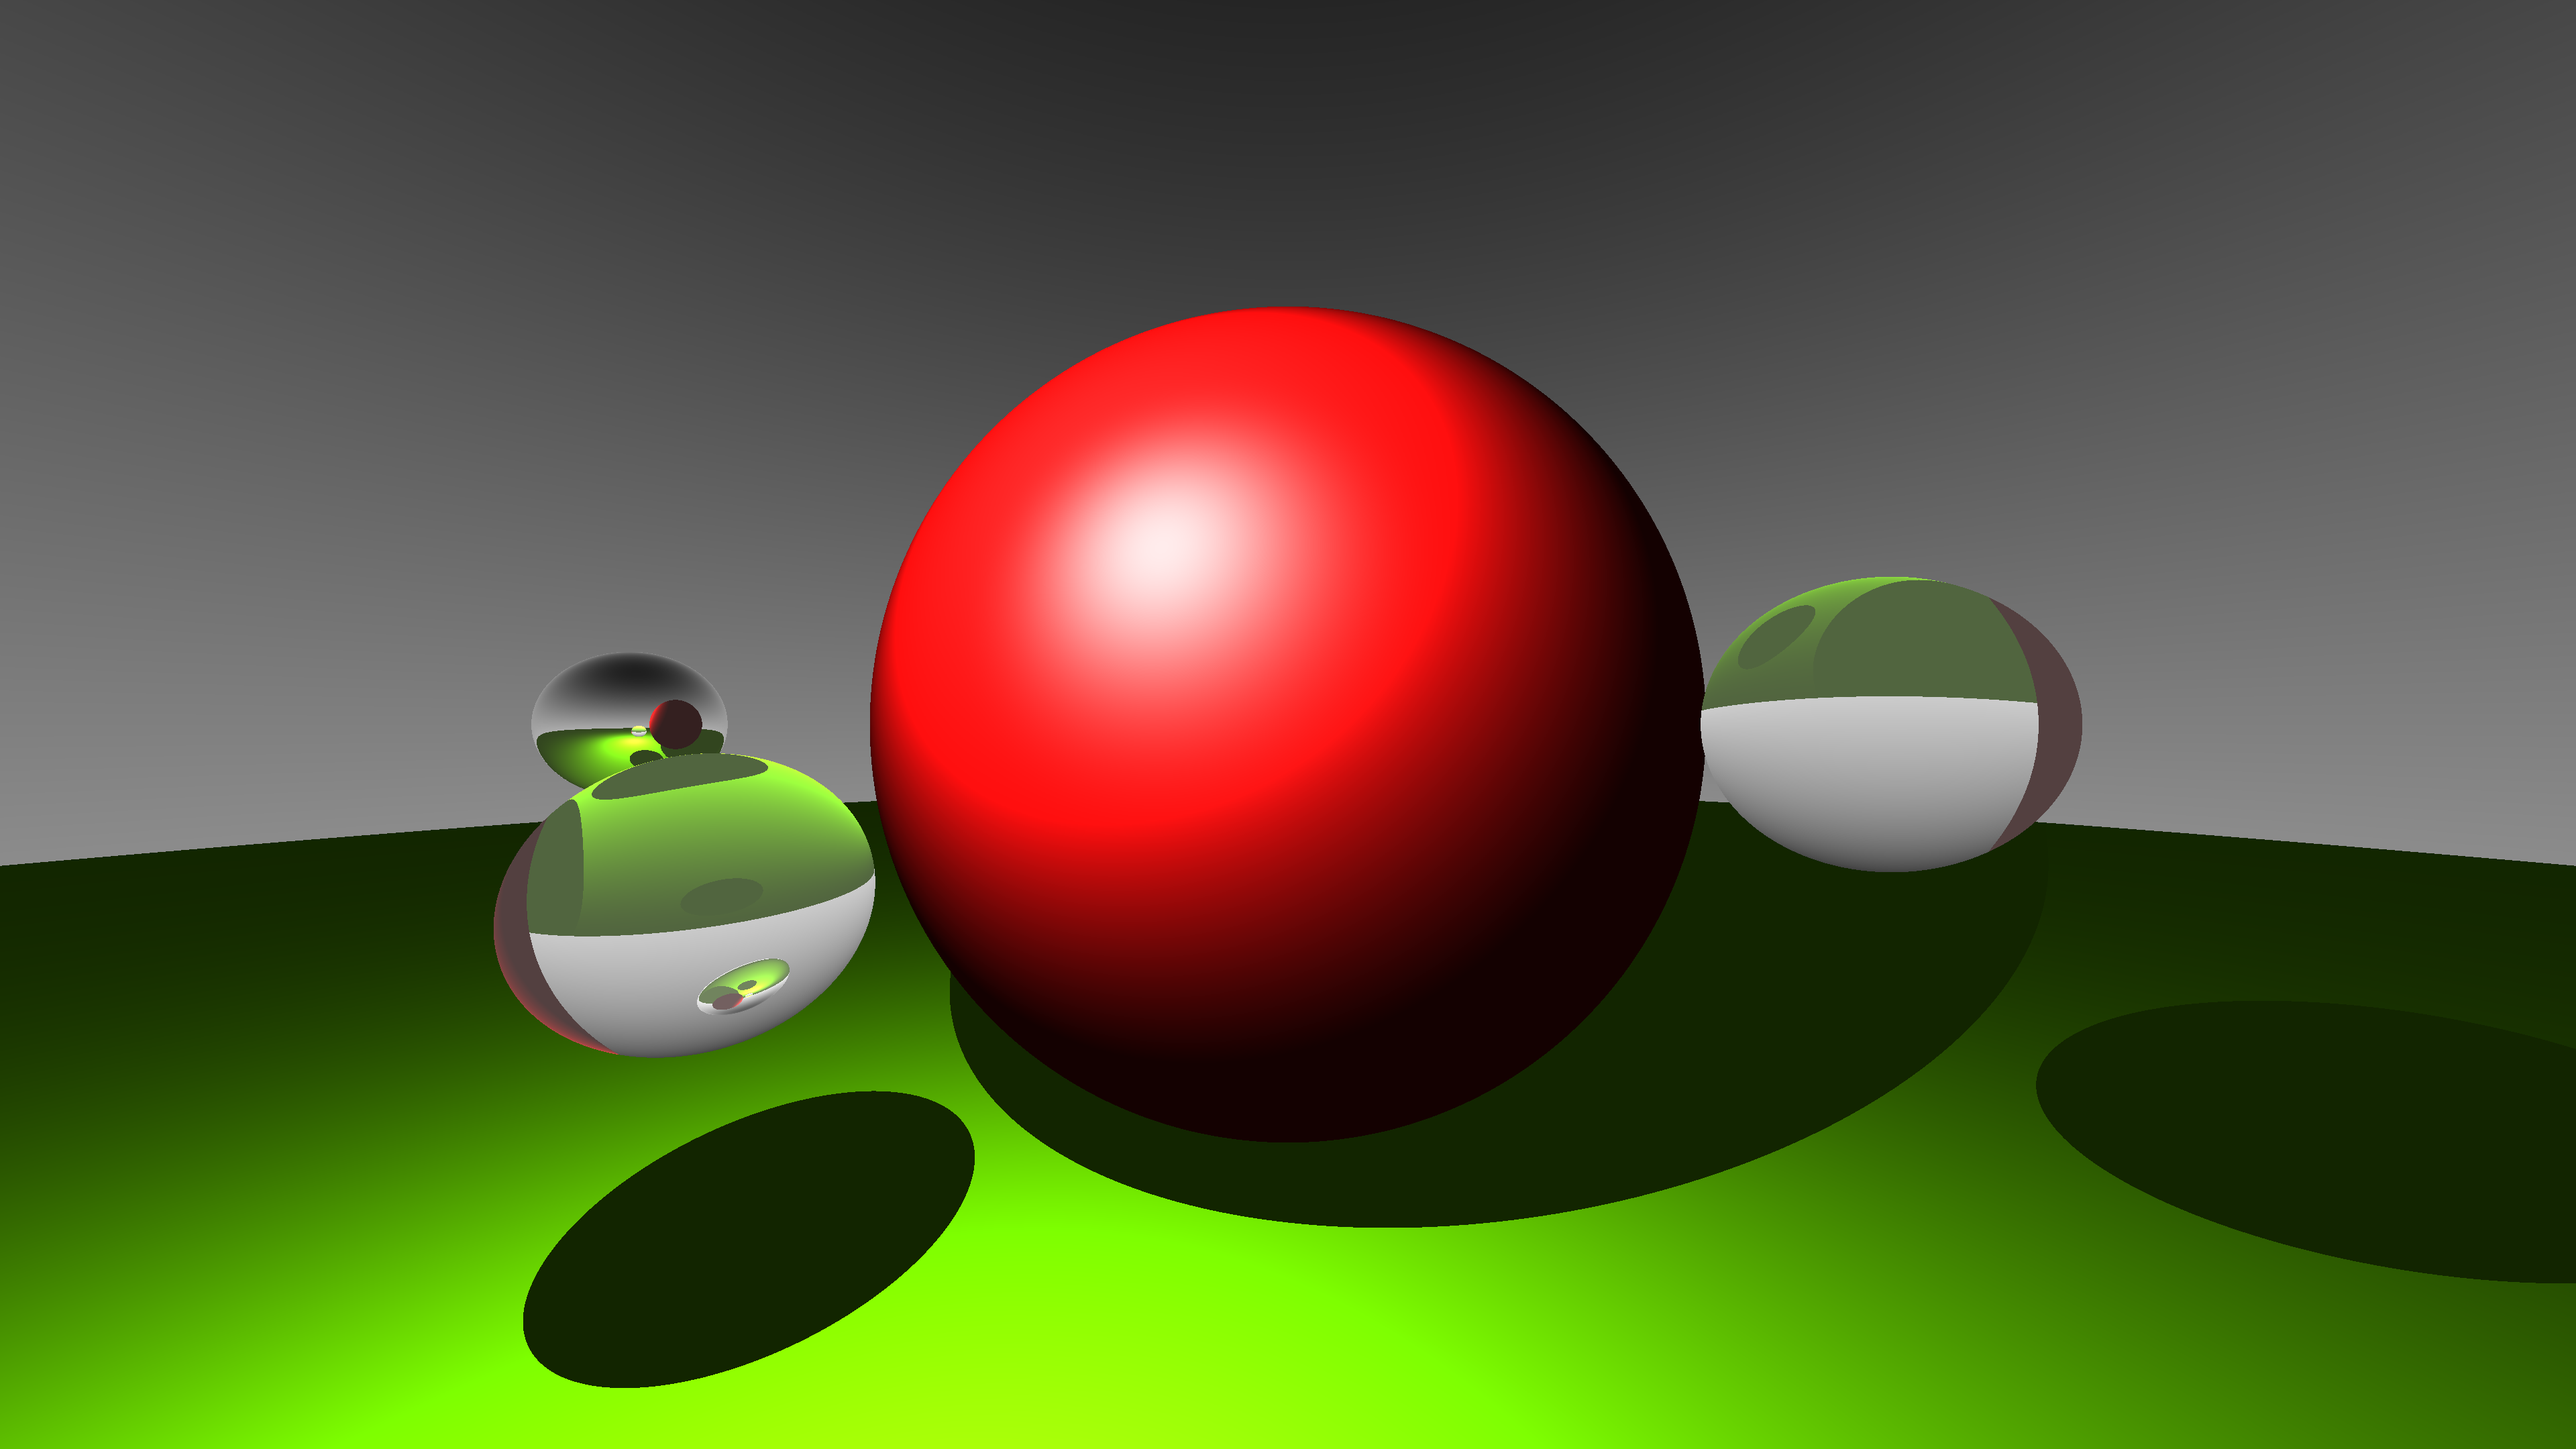
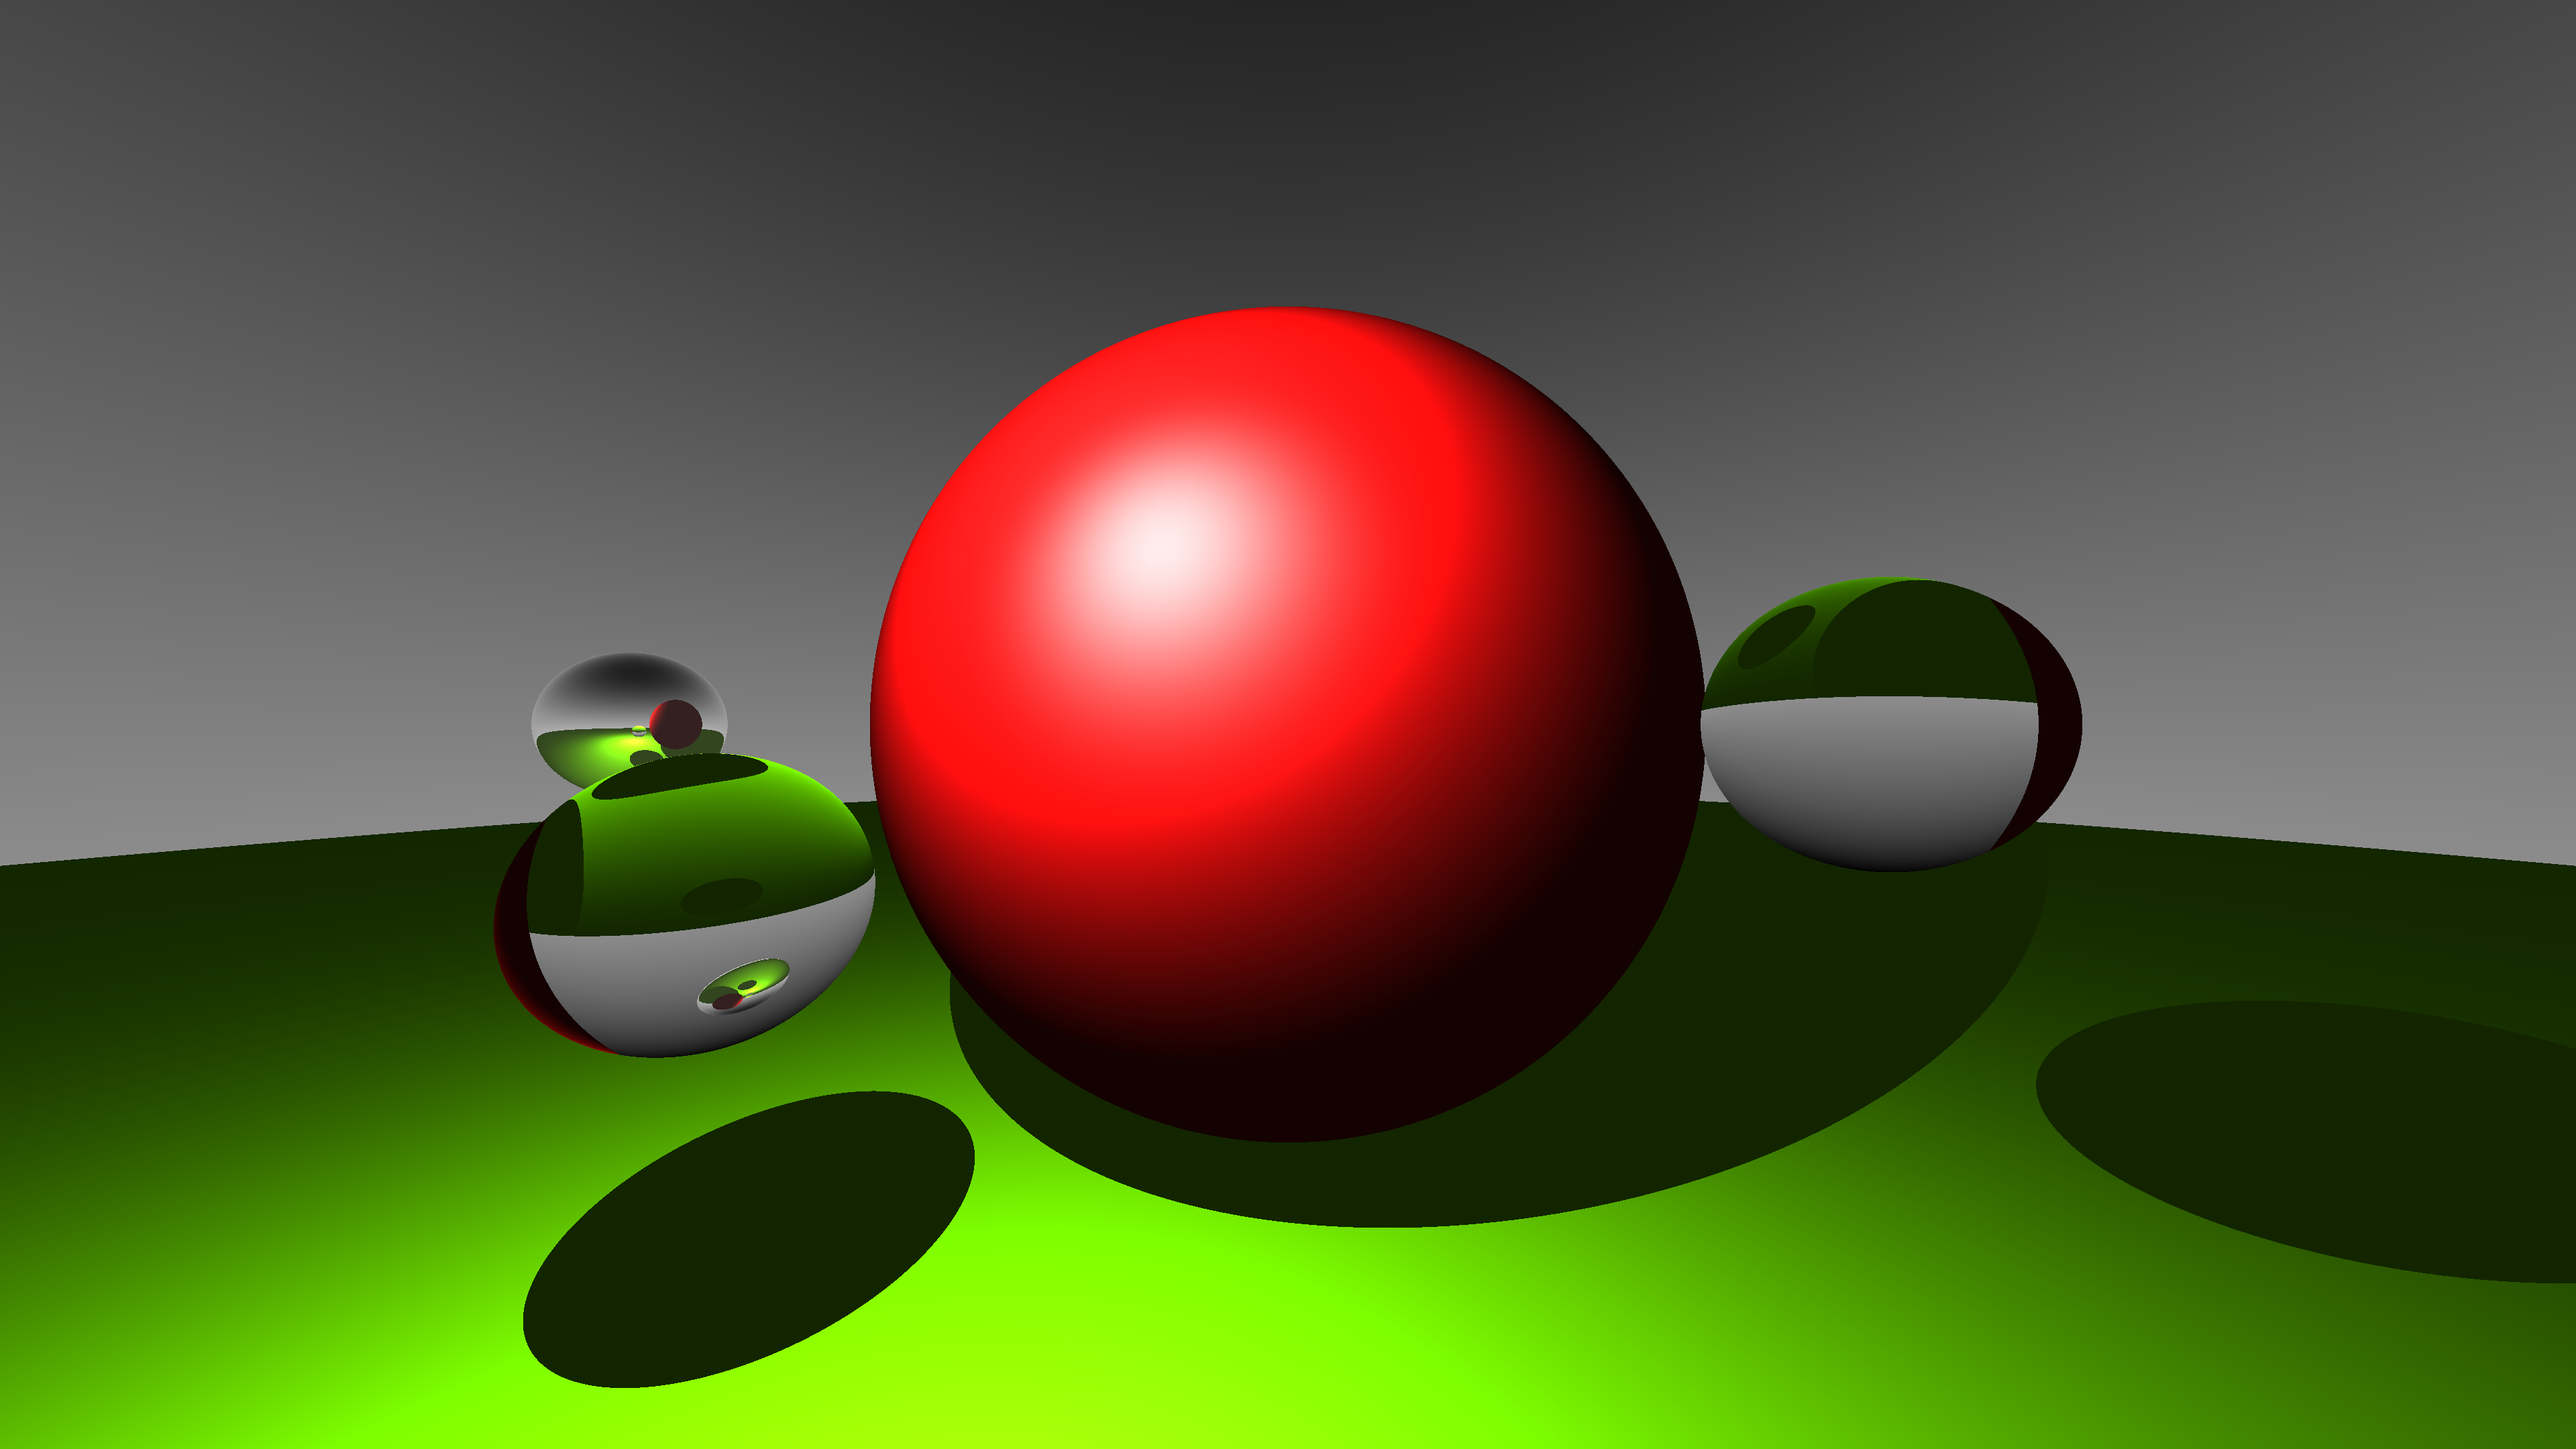
small scene refactor

Changed region(s): [[0.6562, 0.3722, 0.8125, 0.6204], [0.1875, 0.4963, 0.3438, 0.7444]]

diff --git a/src/tracer/scene.rs b/src/tracer/scene.rs
@@ -34,43 +34,43 @@ impl Scene {
         }
         false
     }
-}
 
-pub fn default() -> Scene {
-    Scene {
-        light: DVec3::new(-0.25, 0.35, -0.2),
-        ambient: DVec3::splat(0.15),
-        objects: vec![
-            Sphere {
-                origin: DVec3::new(0.0, -100.5, -1.0),
-                color: DVec3::new(124.0, 252.0, 0.0) / 255.9,
-                material: Box::new(Default {}),
-                radius: 100.0
-            },
-            Sphere {
-                origin: DVec3::new(0.0, 0.0, -1.0),
-                color: DVec3::new(136.0, 8.0, 8.0) / 255.9,
-                material: Box::new(Default {}),
-                radius: 0.5
-            },
-            Sphere {
-                origin: DVec3::new(-0.9, 0.0, -1.0),
-                color: DVec3::splat(211.0) / 255.9,
-                material: Box::new(Mirror {}),
-                radius: 0.1
-            },
-            Sphere {
-                origin: DVec3::new(-0.4, -0.12, -0.5),
-                color: DVec3::splat(211.0) / 255.9,
-                material: Box::new(Glass {}),
-                radius: 0.1
-            },
-            Sphere {
-                origin: DVec3::new(0.4, 0.0, -0.5),
-                color: DVec3::splat(211.0) / 255.9,
-                material: Box::new(Glass {}),
-                radius: 0.1
-            }
-        ]
+    pub fn default() -> Scene {
+        Scene {
+            light: DVec3::new(-0.25, 0.35, -0.2),
+            ambient: DVec3::splat(0.15),
+            objects: vec![
+                Sphere {
+                    origin: DVec3::new(0.0, -100.5, -1.0),
+                    color: DVec3::new(124.0, 252.0, 0.0) / 255.9,
+                    material: Box::new(Default {}),
+                    radius: 100.0
+                },
+                Sphere {
+                    origin: DVec3::new(0.0, 0.0, -1.0),
+                    color: DVec3::new(136.0, 8.0, 8.0) / 255.9,
+                    material: Box::new(Default {}),
+                    radius: 0.5
+                },
+                Sphere {
+                    origin: DVec3::new(-0.9, 0.0, -1.0),
+                    color: DVec3::splat(211.0) / 255.9,
+                    material: Box::new(Mirror {}),
+                    radius: 0.1
+                },
+                Sphere {
+                    origin: DVec3::new(-0.4, -0.12, -0.5),
+                    color: DVec3::ZERO,
+                    material: Box::new(Glass {}),
+                    radius: 0.1
+                },
+                Sphere {
+                    origin: DVec3::new(0.4, 0.0, -0.5),
+                    color: DVec3::ZERO,
+                    material: Box::new(Glass {}),
+                    radius: 0.1
+                }
+            ]
+        }
     }
 }

diff --git a/src/main.rs b/src/main.rs
@@ -20,7 +20,7 @@ fn main() {
         DVec3::new(0.0, 0.0, -1.0), // towards (+ focal length)
         DVec3::new(0.0, 1.0, 0.0) // up
     );
-    let scene = tracer::scene::default();
+    let scene = tracer::scene::Scene::default();
 
     let mut start = std::time::SystemTime::now();
     for y in (0..HEIGHT).rev() {
